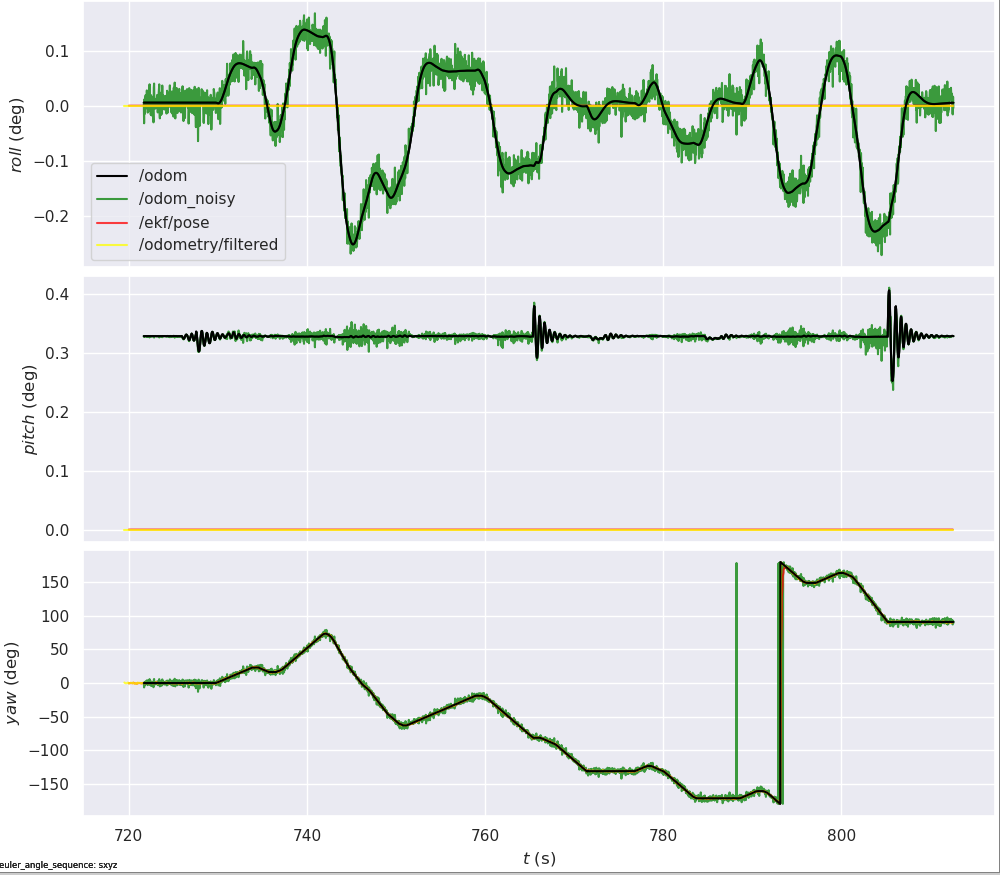
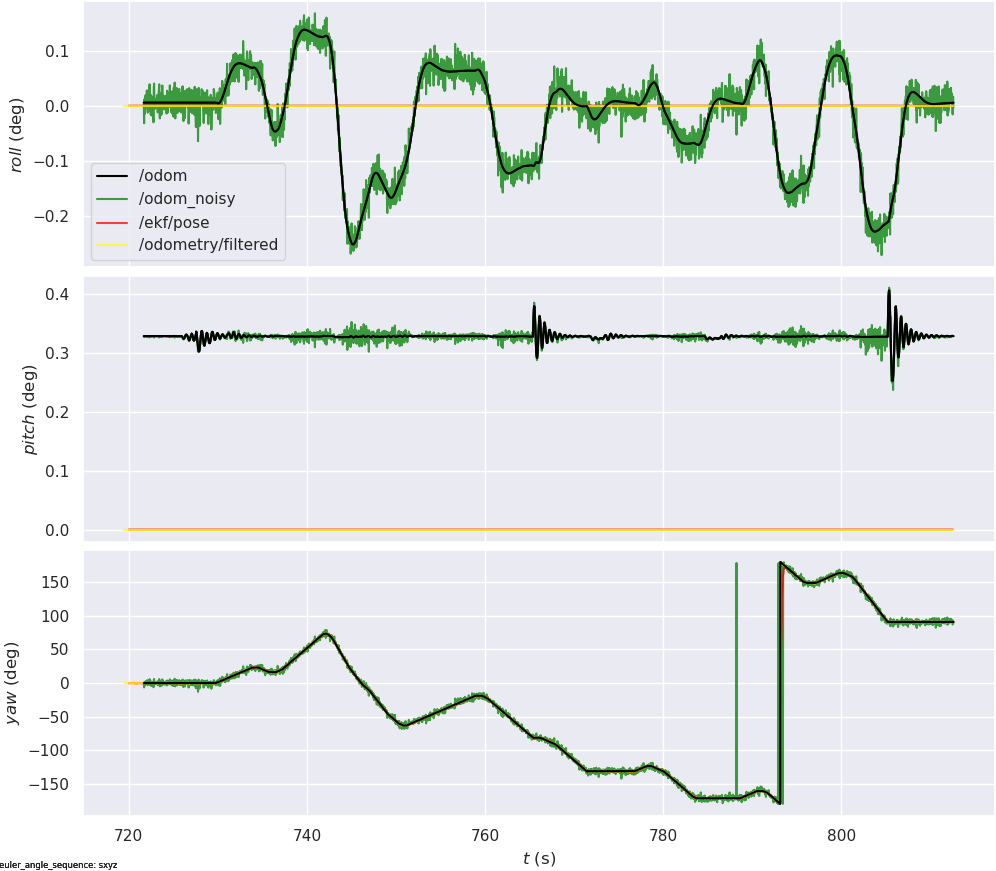
Update README and result plots

diff --git a/README.md b/README.md
@@ -1,280 +1,74 @@
-# ROS 2 Extended Kalman Filter Localization
+# ROS 2 EKF Localization
 
-A from-scratch Extended Kalman Filter (EKF) for 2D TurtleBot3 localization using ROS 2 and Gazebo. The filter fuses noisy wheel-odometry information with IMU yaw measurements to estimate the robot state:
+I implemented an **Extended Kalman Filter (EKF) from scratch** for 2D TurtleBot3 localization using ROS 2 and Gazebo. The goal was to take noisy odometry and IMU measurements and estimate a more accurate robot trajectory.
 
-\[
-\mathbf{x} = [x,\ y,\ \theta]^T
-\]
+## Implementation
 
-The project includes synthetic sensor-noise injection, a custom EKF implementation, trajectory evaluation using `evo`, and a comparison against the ROS 2 `robot_localization` EKF.
+I simulated a TurtleBot3 Burger in Gazebo and drove it around the environment using ROS 2. Gazebo provides the robot's odometry through `/odom` and IMU measurements through `/imu`.
+
+![TurtleBot3 Gazebo Simulation](results/gazebo_simulation.png)
+
+To simulate imperfect sensors, I created a ROS 2 wrapper that adds Gaussian noise to the Gazebo measurements. The wrapper takes `/odom` and `/imu` and publishes the corrupted measurements as `/odom_noisy` and `/imu_noisy`.
+
+I then implemented the EKF using a 2D state:
+
+`[x, y, θ]`
+
+The prediction step uses the robot's linear and angular velocity with a nonlinear velocity motion model. The correction step fuses the noisy odometry position `(x, y)` with IMU yaw `θ`. The final estimate is published as `/ekf/pose`.
+
+For comparison, I also ran the same noisy sensor data through the ROS 2 `robot_localization` EKF.
+
+```text
+Gazebo TurtleBot3
+   │
+   ├── /odom ──┐
+   └── /imu  ──┤
+               ▼
+        Noise Wrapper
+         │          │
+  /odom_noisy   /imu_noisy
+         │          │
+         └────┬─────┘
+              ▼
+          Custom EKF
+              │
+          /ekf/pose
+```
 
 ## Results
 
-The custom EKF reduced translation RMSE by approximately **36%** compared with the noisy odometry input.
+I recorded the trajectories using ROS bags and evaluated them using Absolute Pose Error (APE) with `evo`.
 
 | Method | Translation RMSE |
 |---|---:|
 | Noisy Odometry | 0.1412 m |
 | **Custom EKF** | **0.0903 m** |
-| ROS 2 `robot_localization` | 0.0669 m |
+| `robot_localization` | 0.0669 m |
 
-RMSE was calculated using Absolute Pose Error (APE) with SE(3) Umeyama alignment.
+The custom EKF reduced the translational RMSE from **14.1 cm to 9.0 cm**, an improvement of approximately **36%** over the noisy odometry.
 
 ### Trajectory Comparison
 
 ![Trajectory Comparison](results/trajectory_comparision.png)
 
-- **Black:** Gazebo `/odom` reference
-- **Green:** `/odom_noisy`
-- **Red:** Custom EKF `/ekf/pose`
-- **Yellow:** ROS 2 `robot_localization` `/odometry/filtered`
+**Black:** reference odometry · **Green:** noisy odometry · **Red:** custom EKF · **Yellow:** `robot_localization`
 
-The noisy odometry shows substantial position variation, while both EKF implementations produce smoother trajectories that more closely follow the reference.
+The noisy odometry has visible variation around the reference path, especially during turns. The custom EKF removes much of this noise and stays closer to the reference trajectory. The `robot_localization` estimate is smoother and achieved the lowest overall RMSE.
 
-### Position Estimates
+### Position Comparison
 
 ![Position Comparison](results/position_comparision.png)
 
-### Orientation Estimates
+The noisy `x` and `y` measurements fluctuate around the reference position throughout the run. After filtering, the custom EKF follows the overall position much more closely while removing a large amount of the measurement noise.
+
+### Orientation Comparison
 
 ![Orientation Comparison](results/orientation_comparision.png)
 
-The EKF is designed for planar localization, so yaw is the relevant orientation state.
+Since the EKF estimates planar motion, yaw is the orientation component I focused on. The filtered yaw follows the robot's orientation while reducing the noise introduced into the IMU measurements.
 
-## System Architecture
+## Final Results
 
-```text
-                    TurtleBot3 + Gazebo
-                           |
-                         /odom
-                           |
-                 Synthetic Noise Wrapper
-                    /             \
-             /odom_noisy       /imu_noisy
-                  |                 |
-          x, y, v, omega           yaw
-                  \                 /
-                   \               /
-                    Custom EKF
-                        |
-                    /ekf/pose
-                        |
-                 evo Evaluation
-```
+The project gave me a complete ROS 2 sensor-fusion pipeline: **Gazebo simulation → synthetic sensor noise → EKF prediction and correction → ROS 2 pose estimate → quantitative trajectory evaluation**.
 
-The original Gazebo `/odom` topic is not consumed by the custom EKF and is retained as a reference trajectory for evaluation.
-
-## Extended Kalman Filter
-
-### Prediction
-
-The control input is
-
-\[
-\mathbf{u} = [v,\ \omega]^T
-\]
-
-where \(v\) is linear velocity and \(\omega\) is angular velocity.
-
-For nonzero angular velocity, the nonlinear velocity motion model is
-
-\[
-x' = x - \frac{v}{\omega}\sin(\theta)
-     + \frac{v}{\omega}\sin(\theta+\omega\Delta t)
-\]
-
-\[
-y' = y + \frac{v}{\omega}\cos(\theta)
-     - \frac{v}{\omega}\cos(\theta+\omega\Delta t)
-\]
-
-\[
-\theta' = \theta+\omega\Delta t
-\]
-
-The covariance prediction is
-
-\[
-\Sigma' = G\Sigma G^T + R
-\]
-
-where \(G\) is the Jacobian of the nonlinear motion model and \(R\) is the process-noise covariance.
-
-A separate straight-line model is used when angular velocity approaches zero to avoid division by zero.
-
-### Measurement Update
-
-The measurement vector is
-
-\[
-\mathbf{z} =
-\begin{bmatrix}
-x_{\text{odom}} \\
-y_{\text{odom}} \\
-\theta_{\text{imu}}
-\end{bmatrix}
-\]
-
-Since the measurements directly observe the three state variables,
-
-\[
-h(\mathbf{x}) = \mathbf{x}
-\]
-
-and therefore
-
-\[
-H = I_{3\times3}
-\]
-
-The Kalman gain is
-
-\[
-K = \Sigma'H^T(H\Sigma'H^T + Q)^{-1}
-\]
-
-followed by
-
-\[
-\mu = \mu' + K(\mathbf{z}-h(\mu'))
-\]
-
-\[
-\Sigma = (I-KH)\Sigma'
-\]
-
-where \(Q\) represents measurement-noise covariance.
-
-## ROS 2 Topics
-
-| Topic | Type | Purpose |
-|---|---|---|
-| `/odom` | `nav_msgs/Odometry` | Gazebo reference trajectory |
-| `/odom_noisy` | `nav_msgs/Odometry` | Synthetic noisy odometry |
-| `/imu_noisy` | `sensor_msgs/Imu` | Synthetic noisy IMU |
-| `/ekf/pose` | `geometry_msgs/PoseWithCovarianceStamped` | Custom EKF estimate |
-| `/odometry/filtered` | `nav_msgs/Odometry` | `robot_localization` estimate |
-
-## Project Structure
-
-```text
-ekf_localization/
-├── config/
-│   └── ekf.yaml
-├── ekf_localization/
-│   ├── __init__.py
-│   ├── ekf_node.py
-│   └── synthetic_noise_wrapper.py
-├── results/
-│   ├── trajectory_comparision.png
-│   ├── position_comparision.png
-│   ├── orientation_comparision.png
-│   └── velocity_comparision.png
-├── resource/
-│   └── ekf_localization
-├── test/
-├── package.xml
-├── setup.cfg
-├── setup.py
-└── README.md
-```
-
-## Requirements
-
-- Ubuntu 22.04
-- ROS 2 Humble
-- TurtleBot3
-- Gazebo Classic
-- Python 3
-- NumPy
-- `robot_localization`
-- `evo`
-
-## Build
-
-Clone the repository into the `src` directory of a ROS 2 workspace and build it:
-
-```bash
-cd ~/ros2_ws/src
-git clone <repository-url>
-cd ..
-
-source /opt/ros/humble/setup.bash
-colcon build --symlink-install
-
-source install/setup.bash
-```
-
-## Run
-
-Start the TurtleBot3 Gazebo simulation:
-
-```bash
-export TURTLEBOT3_MODEL=burger
-ros2 launch turtlebot3_gazebo turtlebot3_world.launch.py
-```
-
-Start the synthetic noise wrapper:
-
-```bash
-ros2 run ekf_localization wrapper
-```
-
-Start the custom EKF:
-
-```bash
-ros2 run ekf_localization ekf_node --ros-args -p use_sim_time:=true
-```
-
-The custom estimate is published to:
-
-```text
-/ekf/pose
-```
-
-For comparison, `robot_localization` can be run using the provided configuration:
-
-```bash
-ros2 run robot_localization ekf_node \
-  --ros-args \
-  --params-file <path-to-ekf.yaml> \
-  -p use_sim_time:=true
-```
-
-## Evaluation
-
-Trajectories were recorded with:
-
-```bash
-ros2 bag record /odom /odom_noisy /ekf/pose /odometry/filtered
-```
-
-Absolute Pose Error was evaluated using `evo`:
-
-```bash
-evo_ape bag2 <bag> /odom /ekf/pose -a
-```
-
-The custom EKF achieved a translation RMSE of **0.0903 m**, compared with **0.1412 m** for noisy odometry.
-
-The filter was also run continuously for more than five minutes to check for numerical instability, NaNs, covariance divergence, or loss of pose output.
-
-## Key Takeaways
-
-This project demonstrates:
-
-- Nonlinear state estimation using an Extended Kalman Filter
-- Derivation and implementation of motion-model Jacobians
-- Prediction and measurement-correction steps implemented from scratch
-- Odometry and IMU sensor fusion
-- Quaternion-to-yaw conversion
-- Covariance propagation
-- ROS 2 publishers, subscribers, callbacks, and timers
-- Synthetic sensor-noise modeling
-- ROS bag data collection
-- Quantitative trajectory evaluation with APE/RMSE
-- Comparison with the production ROS 2 `robot_localization` package
-
-## License
-
-MIT
+The custom EKF improved localization accuracy substantially over the noisy sensor input, while the comparison with `robot_localization` gave me a useful baseline for validating my implementation.
